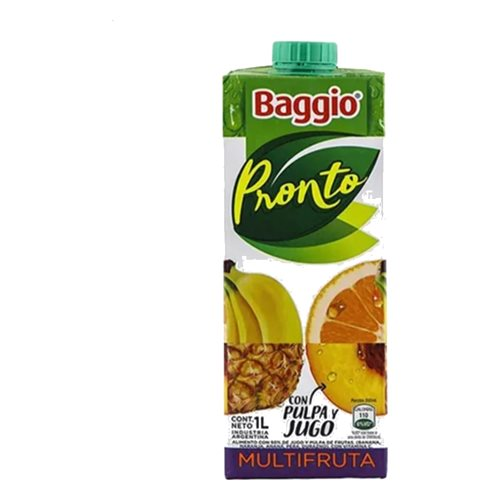
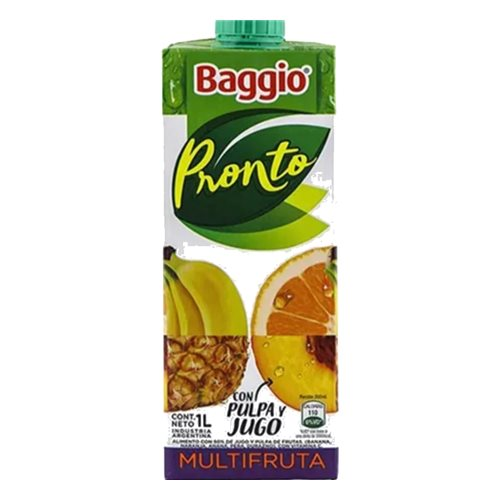
Catalogo de bebidas: sin Gin Forte ni Sernova, foto Baggio centrada

diff --git a/catalogo-bebidas.html b/catalogo-bebidas.html
@@ -143,14 +143,12 @@ const BEBIDAS = [
       ['Fernandito Forte (fernet con cola 1 L)', 'fernandito-forte', [[0, 6500]]],
     ]],
     ['Gin', [
-      ['Gin Forte', '', [[0, 6500]]],
       ['Gin Merle clásico', 'gin-merle-clasico', [[0, 9000]]],
       ['Gin Merle Pink botella', 'gin-merle-pink', [[0, 9500]]],
     ]],
     ['Vodka', [
       ['Skyy sabores', 'skyy-sabores', [[0, 9500]]],
       ['Skyy Cosmic', 'skyy-cosmic', [[0, 12500]]],
-      ['Sernova Raspberry', '', [[0, 6500]]],
       ['Smirnoff sabores botella', 'smirnoff-botella', [[0, 8500]]],
       ['Smirnoff Ice lata sabores', 'smirnoff-lata', [[6, 16500]]],
       ['Dr. Lemon sabores', 'dr-lemon', [[6, 13000]]],
@@ -196,7 +194,7 @@ const BEBIDAS = [
     ]],
   ]],
 ];
-const FOTOS_V = '1';   // cambiar cuando se reemplazan las fotos
+const FOTOS_V = '2';   // cambiar cuando se reemplazan las fotos
 const fmt = new Intl.NumberFormat('es-AR',{style:'currency',currency:'ARS',minimumFractionDigits:0,maximumFractionDigits:0});
 const esc = s => String(s).replace(/[&<>"]/g, c => ({'&':'&amp;','<':'&lt;','>':'&gt;','"':'&quot;'}[c]));
 const norm = s => String(s).normalize('NFD').replace(/[̀-ͯ]/g,'').toLowerCase();
